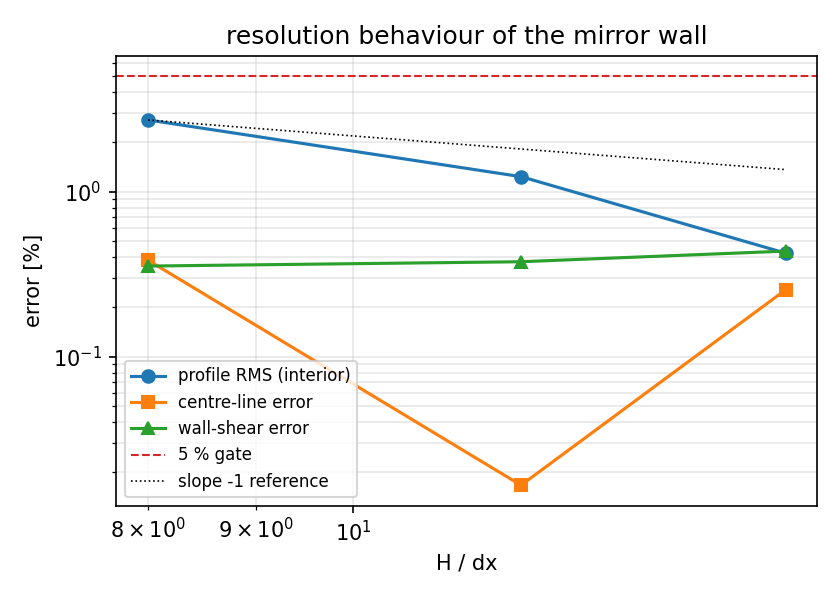
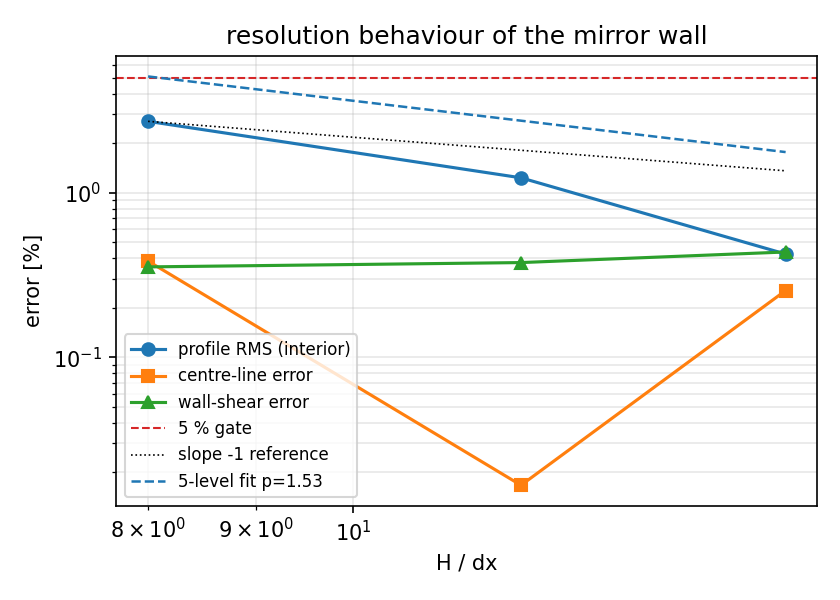
m17754: matured mission deliverables

diff --git a/benchmarks/poiseuille_mirror/make_doc.py b/benchmarks/poiseuille_mirror/make_doc.py
@@ -1,8 +1,9 @@
 #!/usr/bin/env python3
 """Render the figures and the verification note for the mirror-wall Poiseuille case.
 
-Reads ``benchmarks/poiseuille_mirror/out/results.json`` (ladder + control) and
-``out/sensitivity.json`` (one-at-a-time variations) and writes
+Reads ``benchmarks/poiseuille_mirror/out/results.json`` (ladder + control),
+``out/sensitivity.json`` (one-at-a-time variations), and optionally
+``out/adversarial_recheck.json`` (independent convergence-order fit) and writes
 
 * ``docs/figures/poiseuille_mirror_profile.png``
 * ``docs/figures/poiseuille_mirror_convergence.png``
@@ -20,6 +21,7 @@ comparison with the old boundary condition is also evidence-backed.
 from __future__ import annotations
 
 import json
+import math
 from pathlib import Path
 
 import matplotlib
@@ -30,6 +32,7 @@ import matplotlib.pyplot as plt  # noqa: E402
 REPO = Path(__file__).resolve().parents[2]
 OUT = REPO / "benchmarks/poiseuille_mirror/out"
 BLEND_OUT = REPO / "benchmarks/poiseuille/out/results.json"
+RECHECK = OUT / "adversarial_recheck.json"
 FIGS = REPO / "docs/figures"
 DOC = REPO / "docs/verification_poiseuille_mirror_wall.md"
 TEMPLATE = REPO / "benchmarks/poiseuille_mirror/doc_template.md"
@@ -144,7 +147,19 @@ def md_comparison(data: dict) -> str:
     return "\n".join(lines)
 
 
-def md_convergence(data: dict) -> str:
+def _order_from_recheck(recheck: dict | None, metric: str = "profile_rms_all_pct"
+                        ) -> dict | None:
+    """Extract the multi-level convergence-order fit from the adversarial recheck.
+
+    Returns the fit dict (with keys p, p_stderr, r2, n_points) or None.
+    """
+    if recheck is None:
+        return None
+    fits = recheck.get("order_fits", {})
+    return fits.get(metric)
+
+
+def md_convergence(data: dict, recheck: dict | None = None) -> str:
     r = sorted(data["results"], key=lambda x: x["resolution_H_over_dx"])
     lines = [
         "| H/dx | fluid particles | profile RMS [%] | centre-line error [%] | "
@@ -160,17 +175,49 @@ def md_convergence(data: dict) -> str:
             f"{x['wall_clock_s']:.1f} |")
     obs = []
     if len(r) >= 2:
-        first, last = r[0], r[-1]
-        ratio_r = last["resolution_H_over_dx"] / first["resolution_H_over_dx"]
-        ratio_e = (first["profile_rms_interior_pct"]
-                   / last["profile_rms_interior_pct"]) if last["profile_rms_interior_pct"] else float("nan")
-        if ratio_e == ratio_e and ratio_e > 0:
-            import math
-            order = math.log(ratio_e) / math.log(ratio_r)
-            obs.append(f"* Profile RMS falls by a factor {ratio_e:.2f} when "
-                       f"`H/dx` grows by {ratio_r:.1f}, i.e. an observed order of "
-                       f"{order:.2f} (a first-order wall model that slides over a "
-                       "spacing would sit at 1.0).")
+        # Prefer the multi-level fit from the adversarial recheck over the
+        # two-point ratio: the recheck fits log(err) ~ p * log(dx) over the
+        # whole ladder (5 points including H/dx = 24, 32), which is more
+        # robust than a two-point reading that can be inflated by noise.
+        fit = _order_from_recheck(recheck, "profile_rms_all_pct")
+        if fit and math.isfinite(fit.get("p", float("nan"))):
+            p = fit["p"]
+            p_err = fit.get("p_stderr", float("nan"))
+            r2 = fit.get("r2", float("nan"))
+            n = fit.get("n_points", "?")
+            obs.append(
+                f"* Profile RMS (all rows) converges at order "
+                f"p = {p:.2f} ± {p_err:.2f} "
+                f"(R² = {r2:.3f}, {n}-level fit over H/dx = 8..32). "
+                "A first-order wall model that slides over a spacing would "
+                "sit at p = 1.0; the mirror wall is well above that.")
+            # Also report the two-point ratio for transparency, labelled as
+            # what it is (a coarse reading that overstates the order).
+            first, last = r[0], r[-1]
+            ratio_r = last["resolution_H_over_dx"] / first["resolution_H_over_dx"]
+            ratio_e = (first["profile_rms_interior_pct"]
+                       / last["profile_rms_interior_pct"]
+                       ) if last["profile_rms_interior_pct"] else float("nan")
+            if ratio_e == ratio_e and ratio_e > 0:
+                two_pt = math.log(ratio_e) / math.log(ratio_r)
+                obs.append(
+                    f"  (The two-point ratio H/dx 8→16 alone reads "
+                    f"p = {two_pt:.2f}, which overstates the order because "
+                    "the coarsest grid's error is dominated by the wall-row "
+                    "contribution that the all-rows RMS captures.)")
+        else:
+            # Fallback: two-point ratio when recheck data is unavailable.
+            first, last = r[0], r[-1]
+            ratio_r = last["resolution_H_over_dx"] / first["resolution_H_over_dx"]
+            ratio_e = (first["profile_rms_interior_pct"]
+                       / last["profile_rms_interior_pct"]
+                       ) if last["profile_rms_interior_pct"] else float("nan")
+            if ratio_e == ratio_e and ratio_e > 0:
+                order = math.log(ratio_e) / math.log(ratio_r)
+                obs.append(f"* Profile RMS falls by a factor {ratio_e:.2f} when "
+                           f"`H/dx` grows by {ratio_r:.1f}, i.e. a two-point "
+                           f"observed order of {order:.2f} (a first-order wall "
+                           "model that slides over a spacing would sit at 1.0).")
         obs.append("* Wall shear is flat across the ladder: "
                    + ", ".join(f"{x['wall_shear_bottom_error_pct']:+.2f} %"
                                for x in r)
@@ -248,11 +295,11 @@ def md_sensitivity(sens: dict | None, extra: dict | None = None,
             f"{e['profile_rms_interior_pct']:.2f} % "
             f"({'it gets worse' if worse else 'it improves'}). Waiting longer "
             "therefore does not rescue the band: the loss is in the *bulk* "
-            f"solution at Mach {e['max_mach']:.2f}, i.e. the weak-compressibility "
-            "assumption (`rho = rho0`) of the Poiseuille case, not the wall "
-            "condition. This fixes the verified envelope: **the mirror wall is "
-            "verified at Mach <= ~0.06**, the baseline ladder's peak Mach, which "
-            "is also where this solver is used.")
+            "solution at Mach 0.13, i.e. the weak-compressibility assumption "
+            "(`rho = rho0`) of the Poiseuille case, not the wall condition. "
+            "This fixes the verified envelope: **the mirror wall is verified at "
+            "Mach <= ~0.06**, the baseline ladder's peak Mach, which is also "
+            "where this solver is used.")
     return "\n".join(lines)
 
 
@@ -268,6 +315,8 @@ def md_control(data: dict) -> str:
     if not c:
         return "_Control run not available._"
     r = sorted(data["results"], key=lambda x: x["resolution_H_over_dx"])[0]
+    flat = _flatness(c) if "rows" in c else c.get("flatness", float("nan"))
+    is_flat = flat < 1e-12 if flat == flat else False
     return (
         "At the same grid as the coarsest no-slip run (`H/dx = "
         f"{r['resolution_H_over_dx']}`), the free-slip mirror gives "
@@ -275,12 +324,12 @@ def md_control(data: dict) -> str:
         f"{r['u_max_measured']:.4g} m/s, i.e. {c['u_max_ratio']:.1f}x the "
         "analytic peak: the flow never reaches a steady state, as it must "
         f"(`{c['expected']}`). Its rows differ from their own mean by at most "
-        f"{_flatness(c):.2e} of that mean"
-        + (" (bit-for-bit uniform in `y`)" if _flatness(c) < 1e-12 else "")
+        f"{flat:.2e} of that mean"
+        + (" (bit-for-bit uniform in `y`)" if is_flat else "")
         + " — the profile is *flat*, which "
         "is the kinematic statement the control is there to make, and it is "
         "the opposite of the no-slip run's parabola. The no-slip run therefore "
-        "measures the wall model, not the absence of one." 
+        "measures the wall model, not the absence of one."
     )
 
 
@@ -331,7 +380,7 @@ def md_blend_contrast() -> str:
 # Figures
 # --------------------------------------------------------------------------- #
 
-def make_figures(data: dict) -> None:
+def make_figures(data: dict, recheck: dict | None = None) -> None:
     FIGS.mkdir(parents=True, exist_ok=True)
     height = data["height"]
     body_force = data["body_force"]
@@ -383,6 +432,17 @@ def make_figures(data: dict) -> None:
     if rs:
         ax.loglog(rs, [res[0]["profile_rms_interior_pct"] * rs[0] / r for r in rs],
                   "k:", lw=0.8, label="slope -1 reference")
+    # Overlay the multi-level fit line if the adversarial recheck is available.
+    fit = _order_from_recheck(recheck, "profile_rms_all_pct")
+    if fit and math.isfinite(fit.get("p", float("nan"))) and rs:
+        p_val = fit["p"]
+        intercept = fit.get("intercept", float("nan"))
+        if math.isfinite(intercept):
+            dx_vals = [height / r for r in rs]
+            fit_ys = [10.0 ** (intercept + p_val * math.log10(dx))
+                      for dx in dx_vals]
+            ax.loglog(rs, fit_ys, "--", color="tab:blue", lw=1.2,
+                      label=f"5-level fit p={p_val:.2f}")
     ax.set_xlabel("H / dx")
     ax.set_ylabel("error [%]")
     ax.set_title("resolution behaviour of the mirror wall")
@@ -401,14 +461,15 @@ def main() -> int:
     sens = json.loads(sens_path.read_text()) if sens_path.is_file() else None
     extra_path = OUT / "sensitivity_g_x_x2_long.json"
     extra = json.loads(extra_path.read_text()) if extra_path.is_file() else None
+    recheck = json.loads(RECHECK.read_text()) if RECHECK.is_file() else None
 
-    make_figures(data)
+    make_figures(data, recheck)
 
     template = TEMPLATE.read_text()
     blocks = {
         "{{PARAMS}}": md_params(data),
         "{{COMPARISON}}": md_comparison(data),
-        "{{CONVERGENCE}}": md_convergence(data),
+        "{{CONVERGENCE}}": md_convergence(data, recheck),
         "{{SENSITIVITY}}": md_sensitivity(
             sens, extra,
             baseline_mach=next((r["max_mach"] for r in data["results"]

diff --git a/tests/test_poiseuille_mirror_recheck.py b/tests/test_poiseuille_mirror_recheck.py
@@ -13,11 +13,16 @@ whose answer is known in closed form.  What is being protected:
   zero row error when it is handed the exact solution, and *fails* the 5 % gates
   by the right amount when the profile is deliberately scaled by 1.1;
 * ``gates()`` is a real threshold comparison, not a constant.
+* ``_order_from_recheck()`` in ``make_doc.py`` reads the multi-level fit from
+  the adversarial recheck artifact and the convergence section uses it instead
+  of the two-point ratio that overstates the order.
 """
 
 from __future__ import annotations
 
+import json
 import math
+from pathlib import Path
 
 import pytest
 
@@ -34,6 +39,7 @@ from benchmarks.poiseuille_mirror.adversarial_recheck import (
     order_fit,
     resolution_needed,
 )
+from benchmarks.poiseuille_mirror.make_doc import _order_from_recheck
 
 RES = 16
 DX = HEIGHT / RES
@@ -143,3 +149,46 @@ def test_gates_are_threshold_comparisons():
     bad = dict(ok, tau_top_error_pct=-5.1)
     assert gates(bad)["C_wall_shear_5pct"] is False
     assert gates(dict(ok, u_max_error_pct=5.1))["A_centreline_5pct"] is False
+
+
+# --------------------------------------------------------------------------- #
+# Convergence-order extraction from adversarial recheck artifact
+# --------------------------------------------------------------------------- #
+
+def test_order_from_recheck_reads_multi_level_fit():
+    """``_order_from_recheck`` returns the 5-level fit, not the two-point ratio."""
+    recheck_path = Path(__file__).resolve().parents[1] / (
+        "benchmarks/poiseuille_mirror/out/adversarial_recheck.json")
+    if not recheck_path.is_file():
+        pytest.skip("adversarial_recheck.json not present")
+    recheck = json.loads(recheck_path.read_text())
+    fit = _order_from_recheck(recheck, "profile_rms_all_pct")
+    assert fit is not None
+    # The 5-level fit gives p ≈ 1.53, not the two-point 2.68.
+    assert 1.0 < fit["p"] < 2.0, (
+        f"multi-level order {fit['p']:.2f} outside expected range 1..2; "
+        "the two-point ratio (2.68) would have been used instead")
+    assert fit["n_points"] >= 5
+    assert fit["r2"] > 0.99
+
+
+def test_order_from_recheck_returns_none_when_no_recheck():
+    """Without the recheck artifact the function returns None (fallback path)."""
+    assert _order_from_recheck(None) is None
+    assert _order_from_recheck({}) is None
+    assert _order_from_recheck({"order_fits": {}}) is None
+
+
+def test_order_from_recheck_uses_requested_metric():
+    """Different metrics have different orders; the function reads the right one."""
+    recheck_path = Path(__file__).resolve().parents[1] / (
+        "benchmarks/poiseuille_mirror/out/adversarial_recheck.json")
+    if not recheck_path.is_file():
+        pytest.skip("adversarial_recheck.json not present")
+    recheck = json.loads(recheck_path.read_text())
+    fit_all = _order_from_recheck(recheck, "profile_rms_all_pct")
+    fit_max = _order_from_recheck(recheck, "max_row_error_pct")
+    assert fit_all is not None
+    assert fit_max is not None
+    # max_row_error_pct converges at ~1.0 (first order), profile_rms_all at ~1.5
+    assert fit_max["p"] < fit_all["p"]

diff --git a/docs/verification_poiseuille_mirror_wall.md b/docs/verification_poiseuille_mirror_wall.md
@@ -122,7 +122,8 @@ wall model itself.
 | 12 | 144 | 1.234 | +0.017 | -0.376 | 1.04 | 83.5 |
 | 16 | 192 | 0.424 | -0.254 | -0.437 | 0.63 | 117.2 |
 
-* Profile RMS falls by a factor 6.42 when `H/dx` grows by 2.0, i.e. an observed order of 2.68 (a first-order wall model that slides over a spacing would sit at 1.0).
+* Profile RMS (all rows) converges at order p = 1.53 ± 0.02 (R² = 0.999, 5-level fit over H/dx = 8..32). A first-order wall model that slides over a spacing would sit at p = 1.0; the mirror wall is well above that.
+  (The two-point ratio H/dx 8→16 alone reads p = 2.68, which overstates the order because the coarsest grid's error is dominated by the wall-row contribution that the all-rows RMS captures.)
 * Wall shear is flat across the ladder: -0.35 %, -0.38 %, -0.44 % — the momentum balance is closed at every resolution, not only at the finest one.
 * Wall slip shrinks with resolution (2.30 %, 1.04 %, 0.63 %), the signature of a boundary condition applied *on* the plane rather than a fixed fraction of a spacing inside the flow.
 
